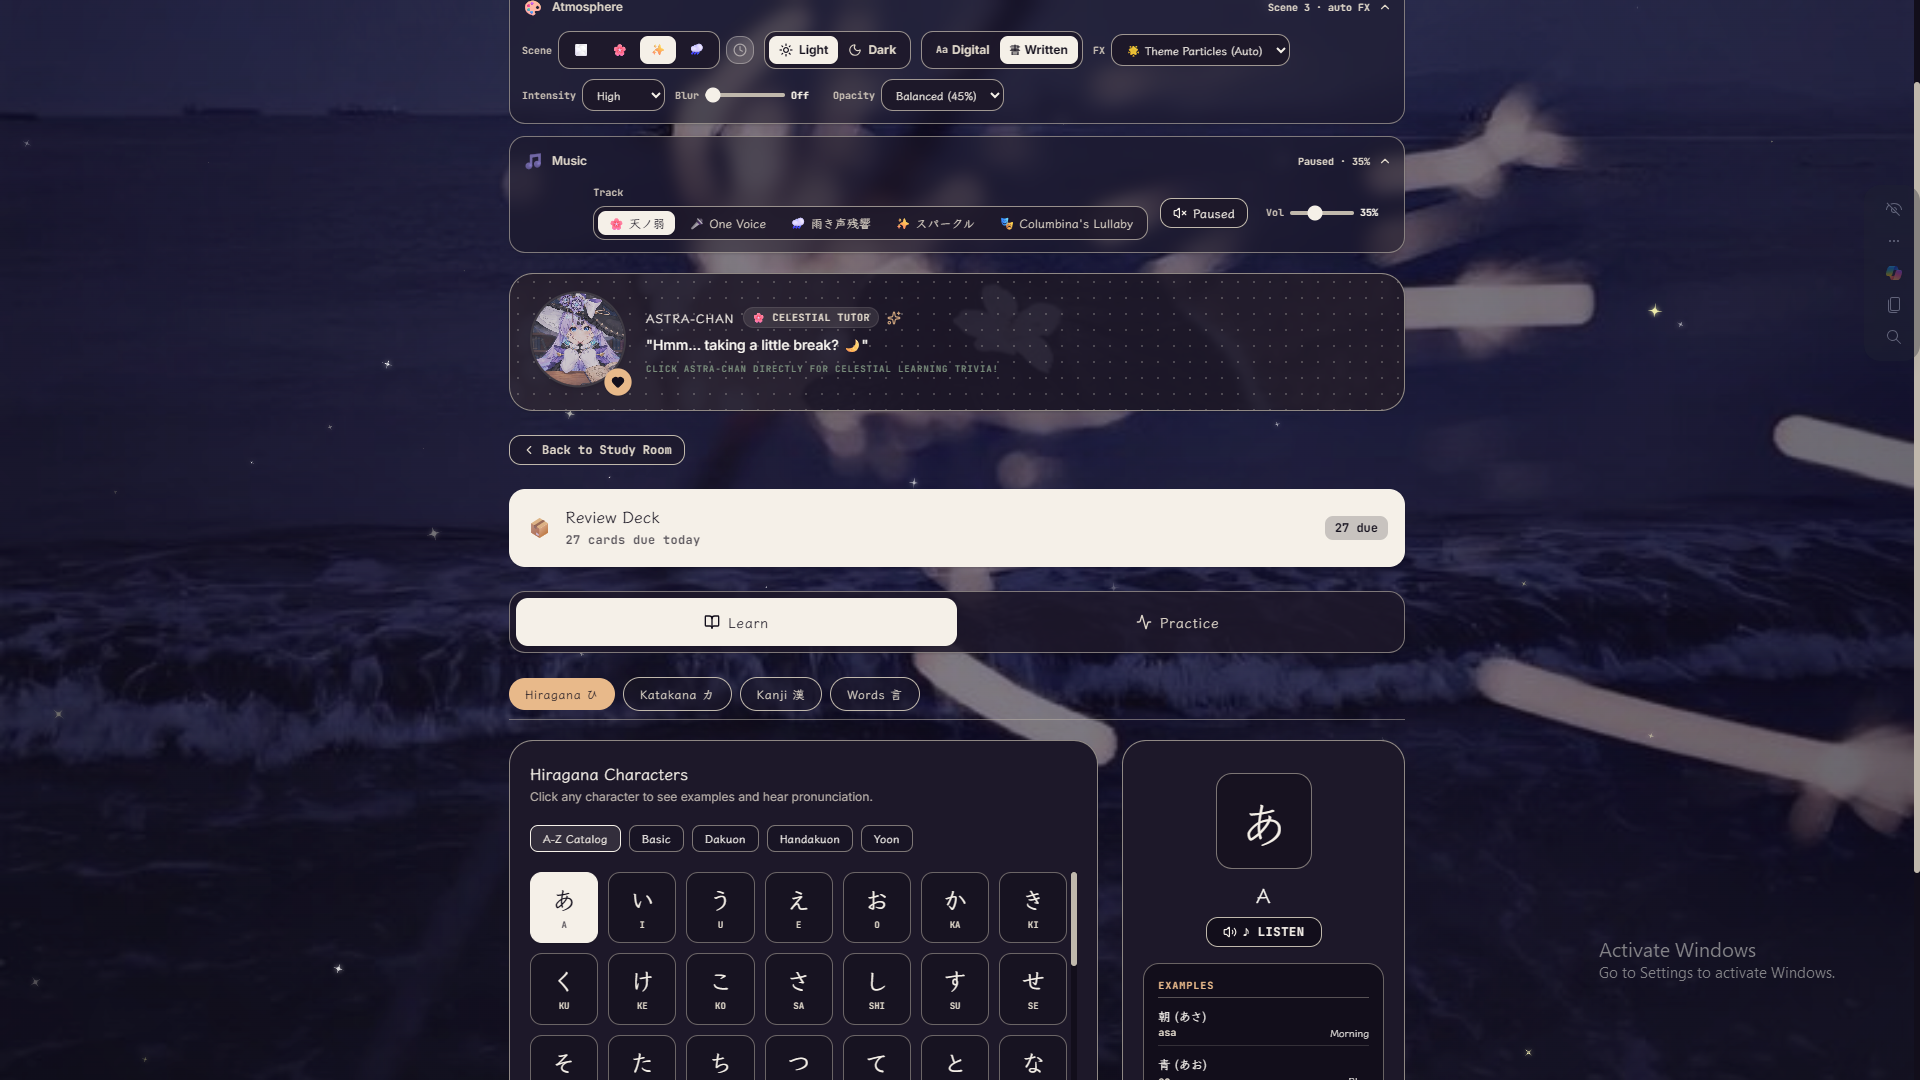
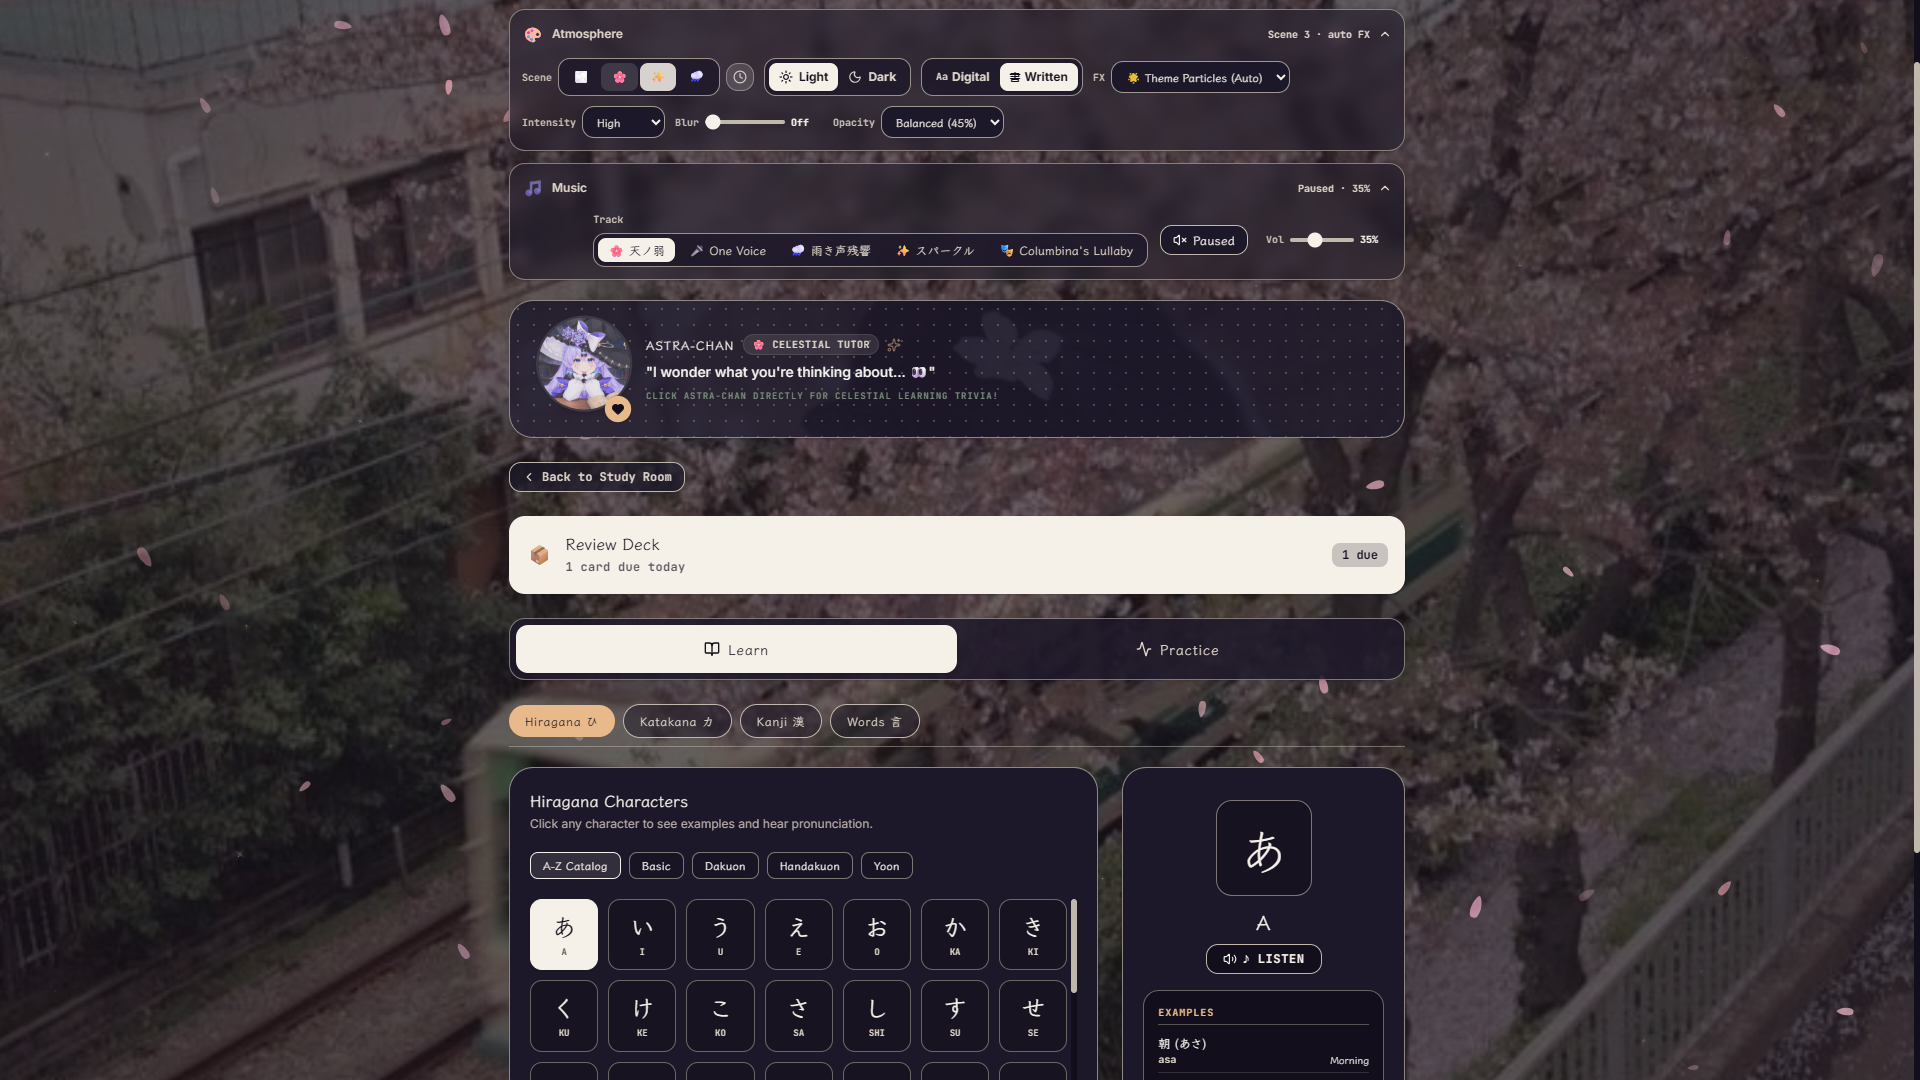
Updated files

diff --git a/README.md b/README.md
@@ -123,8 +123,7 @@ The home screen is Astra-chan's room — each object is a destination:
 - **Daily Spell** — a suggested next action shown on the home screen each session
 
 <p align="center">
-  <img src="docs/vocab-garden.png" alt="N5 Vocabulary — searchable word list with categories and SRS add buttons" width="49%" />
-  <img src="docs/kanji-specimen.png" alt="Kanji study card — Digital / Written / Compare specimen with meaning and On/Kun readings" width="49%" />
+  <img src="docs/vocab-garden.png" alt="N5 Vocabulary — searchable word list with categories and SRS add buttons" width="100%" />
 </p>
 
 ### 🎯 Practice & Quiz
@@ -243,15 +242,14 @@ The home screen is Astra-chan's room — each object is a destination:
 - **Theme & Fonts** — 6 full visual themes (Light, Dark, 🔮 Cosmic Witch, 🎋 Emerald Jade, 🍁 Autumn Maple, 🌌 Cyber Tokyo), each with its own color palette and matching shift in Astra-chan's personality and dialogue, plus a premium typography selector (Noto Sans JP / Klee One)
 
 <p align="center">
-  <img src="docs/theme-cosmic-witch.png" alt="Study Room in the Cosmic Witch theme" width="49%" />
-  <img src="docs/theme-cyber-tokyo.png" alt="The same Study Room in the Cyber Tokyo theme" width="49%" />
+  <img src="docs/theme-cosmic-witch.png" alt="Study Room in the Cosmic Witch theme" width="100%" />
 </p>
 
 - **Astra-chan** — animated mascot with mood system, speech bubbles, and AFK reactions:
   - Goes wondering after 15 seconds of no interaction
   - Goes into deep AFK mode after 3 minutes
   - Lights up with excitement when you return
-  - Five artwork states with smooth crossfade transitions, including dedicated reading and reading-reaction artwork
+  - Five artwork states with smooth crossfade transitions: default, wondering while you are away, excited when you return, reading, and reading-clicked
 
 ---
 
@@ -398,7 +396,7 @@ V1 protects authentication, room membership IDs, invite ownership, profiles, and
 - [x] Vocab and Kanji quiz modes with custom picker
 - [x] Streak calendar and achievement badges
 - [x] Progress backup and restore
-- [x] Astra-chan AFK reactions (wondering, deep AFK, welcome back) as part of the five-state mascot artwork
+- [x] Astra-chan mascot states: default, wondering/AFK waiting, excited return, reading, and reading-clicked artwork
 - [x] Kanji drawing feedback — originally Cloudflare Workers AI (LLaVA 1.5 7B), upgraded to **Gemini 3.1 Flash Lite** after accuracy issues with the original model
 - [x] Romaji toggle for beginners across Grammar Dojo and Reference Charts
 - [x] App component splitting across 9 phases (described above; later features continued to evolve `App.tsx`)
